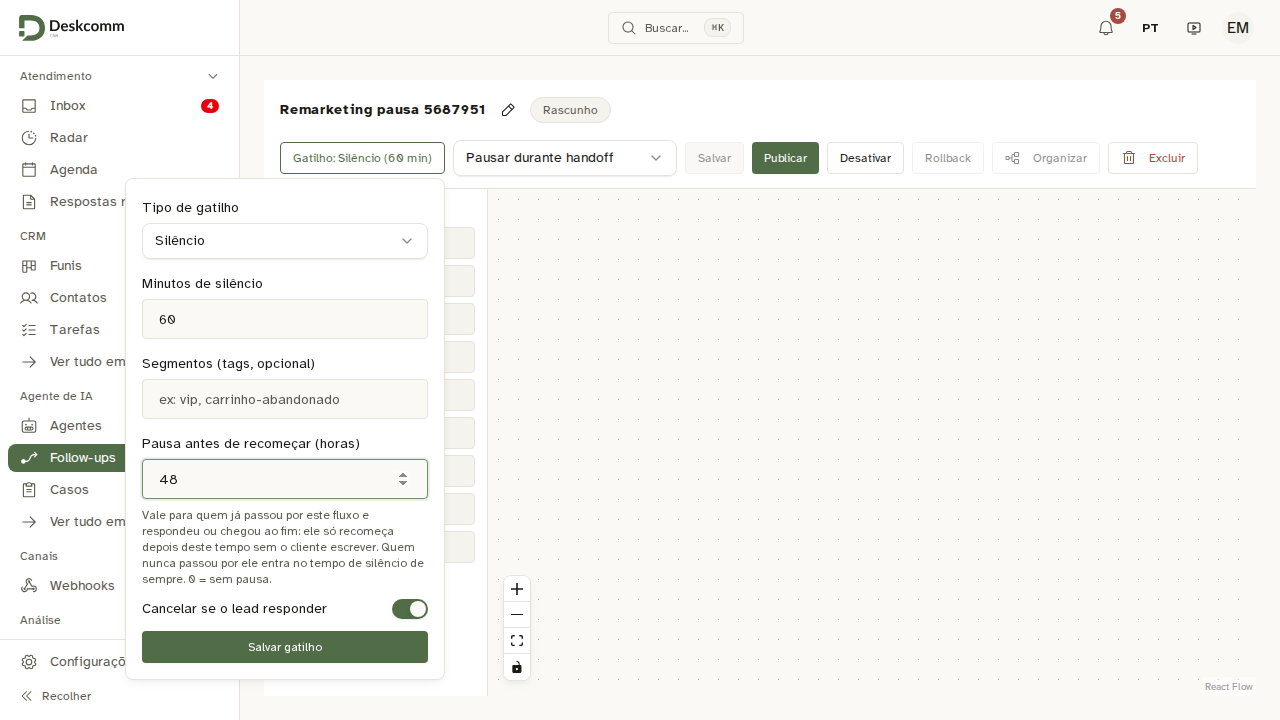
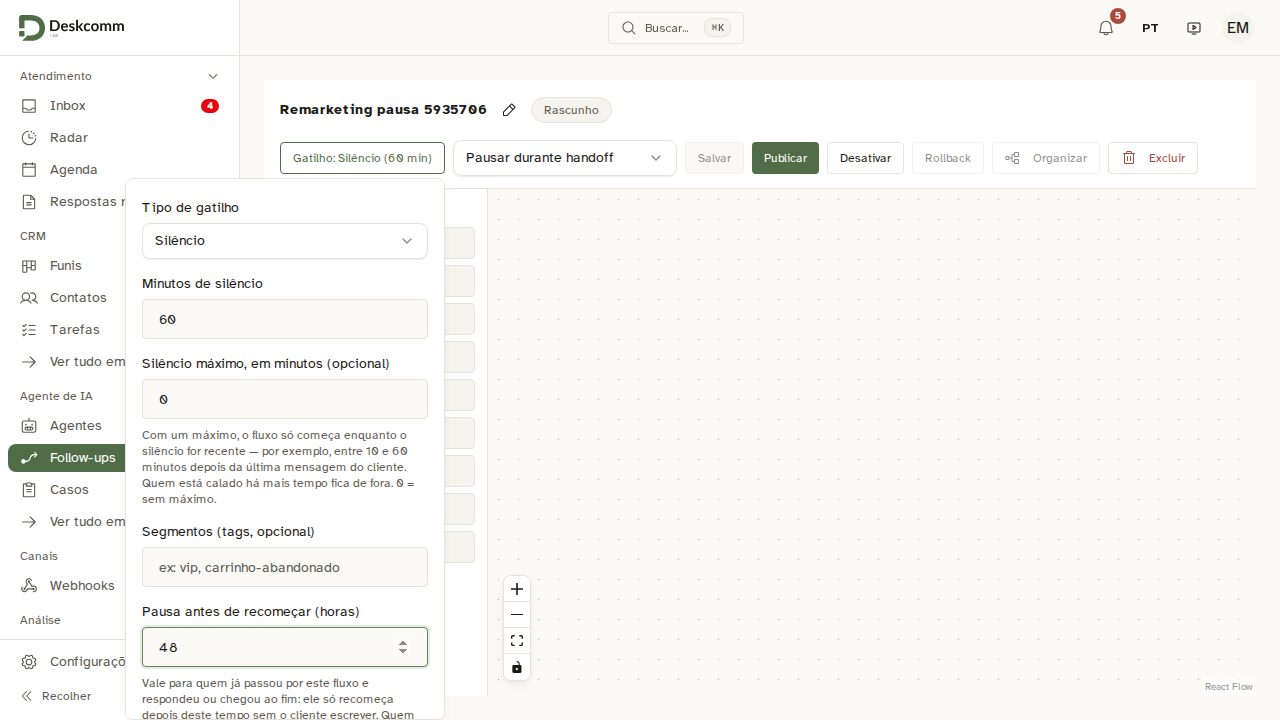
fix(followup): a base da pausa entra no vocabulário, e a evidência sai com o interruptor ligado
- `BASES_DA_PAUSA_DE_REENTRADA` em `vocabulario.ts` (com tradução): o `z.enum`
  novo do gatilho não pode chegar cru a quem lê o gatilho — cobrado por
  `vocabulario.test.ts`.
- A captura da evidência desliga as animações: o interruptor recém-ligado saía
  na foto a meio caminho, parecendo desligado, com o teste já tendo conferido
  que estava ligado.
- Evidência da spec `pausa-de-reentrada` recapturada com o painel novo (teto e
  base), citada nas jornadas J39.5 e J39.6.

(cherry picked from commit 09fafc8f3404feef114a6497bdbf25171fad603b, jmpo/DeskcommCRM)

diff --git a/lib/followup/vocabulario.ts b/lib/followup/vocabulario.ts
@@ -58,6 +58,7 @@ import {
   type waitConfigSchema,
 } from "./graph-schema";
 import type { EnrollmentOutcome, EnrollmentStatus } from "./node-handlers";
+import type { BaseDaPausa } from "./pausa-de-reentrada";
 
 type ConditionConfig = z.infer<typeof conditionConfigSchema>;
 type Check = ConditionConfig["checks"][number];
@@ -598,4 +599,14 @@ export const GATILHOS: Record<TipoDeGatilho, string> = {
   case_opened: "Quando o agente pede ajuda de um humano",
   inbound_after_silence: "Cliente voltou",
   conversation_end: "Fim da conversa",
+};
+
+/**
+ * De onde conta a pausa antes de o gatilho de silêncio recomeçar
+ * (`params.reentry_pause_basis`). A tela a oferece como um interruptor, mas o
+ * valor não pode chegar cru a quem lê o gatilho em outro lugar.
+ */
+export const BASES_DA_PAUSA_DE_REENTRADA: Record<BaseDaPausa, string> = {
+  ultima_mensagem: "Da última mensagem do cliente",
+  ultimo_envio: "Do último envio deste fluxo",
 };

diff --git a/lib/i18n/dicionario.ts b/lib/i18n/dicionario.ts
@@ -2465,6 +2465,8 @@ export const DICIONARIO: Traducoes = {
   // ─── gatilho de silêncio — pausa de reentrada (lib/followup/pausa-de-reentrada.ts) ───
   "Pausa antes de recomeçar (horas)": { es: "Pausa antes de volver a empezar (horas)" },
   "Silêncio máximo, em minutos (opcional)": { es: "Silencio máximo, en minutos (opcional)" },
+  "Da última mensagem do cliente": { es: "Desde el último mensaje del cliente" },
+  "Do último envio deste fluxo": { es: "Desde el último envío de este flujo" },
   "Contar a pausa a partir do último envio deste fluxo (e não da última mensagem do cliente)": {
     es: "Contar la pausa desde el último envío de este flujo (y no desde el último mensaje del cliente)",
   },

diff --git a/tests/e2e/qa-l12-comum.ts b/tests/e2e/qa-l12-comum.ts
@@ -97,7 +97,8 @@ export async function login(page: Page, email: string, senha: string): Promise<v
 
 export async function captura(page: Page, nome: string): Promise<void> {
   fs.mkdirSync(EVIDENCIA, { recursive: true });
-  await page.screenshot({ path: path.join(EVIDENCIA, `${nome}.png`), fullPage: true });
+  // Transições CSS terminadas: um interruptor recém-ligado sairia na foto a meio caminho.
+  await page.screenshot({ path: path.join(EVIDENCIA, `${nome}.png`), fullPage: true, animations: "disabled" });
 }
 
 /**
